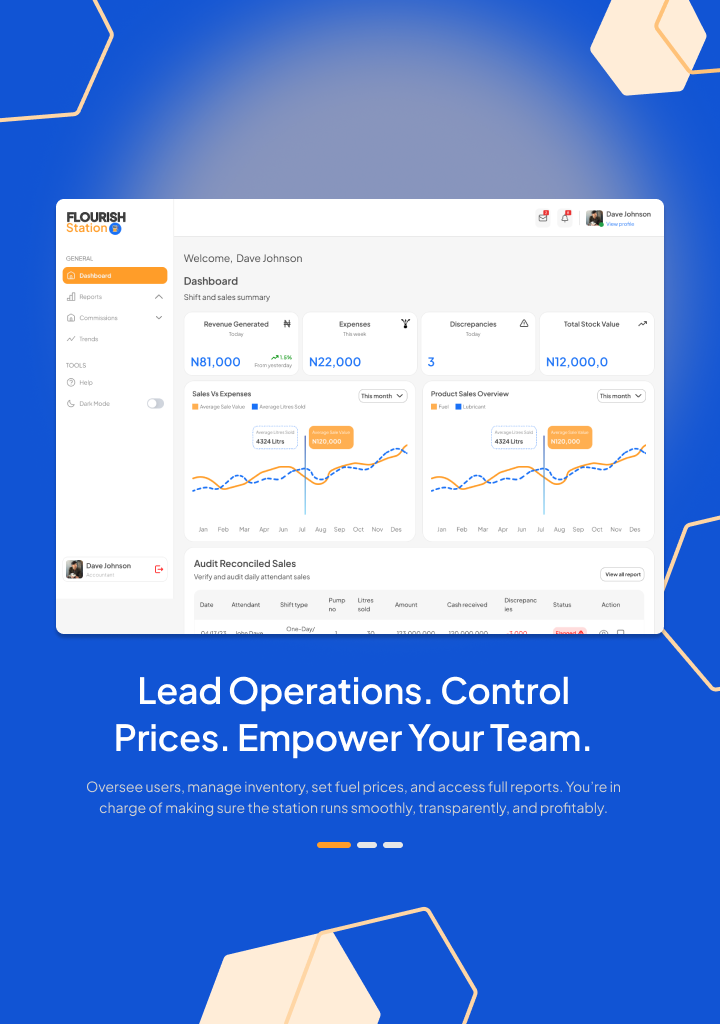
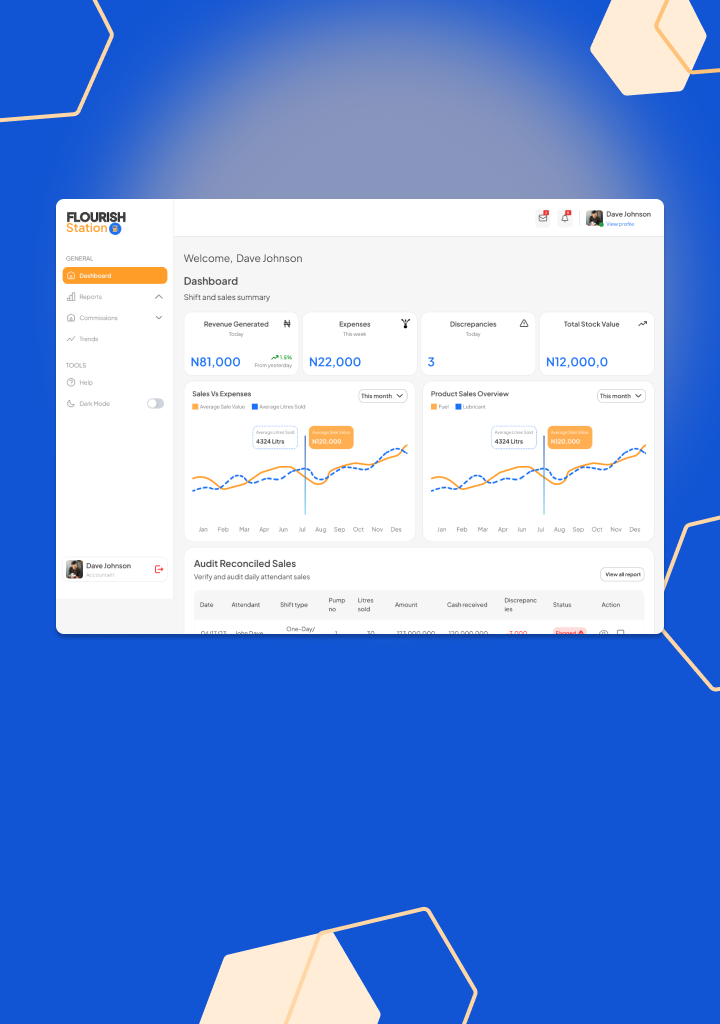
slider done

Changed region(s): [[0.1222, 0.6562, 0.825, 0.8438], [0.825, 0.75, 0.8556, 0.7812]]

diff --git a/src/sections/login/Login.jsx b/src/sections/login/Login.jsx
@@ -1,11 +1,105 @@
+// 'use client'
+// import React, { useState } from 'react'
+// import { FiEyeOff } from "react-icons/fi";
+// import { FiEye } from "react-icons/fi";
+// import LoginTwo from '../LoginTwo';
+
+
+
+
+// const Login = () => {
+//   const [password, setPassword] = useState("");
+//   const [showPassword, setShowPassword] = useState(false);
+
+//   const handleShowPassword = () => setShowPassword(!showPassword);
+
+//   return (
+//     <div className='flex p-20 gap-8 justify-center items-center  '>
+//       {/* Left - Form Section */}
+//       <div className='w-full md:w-[450px]'>
+//         <div className='leading-7'>
+//           <img src="/station-logo.png" alt="logo" className='h-10 mb-8' />
+
+//           <h1 className='text-2xl font-bold text-[#323130]'>Login to Flourish Station</h1>
+//           <p className='text-sm text-gray-500'>Login to access your customized dashboard</p>
+
+//           <form className='flex flex-col gap-4 mt-6'>
+            
+//             {/* Email */}
+//             <div className='relative flex flex-col'>
+//               <label className='text-sm font-bold text-[#323130]'>Email</label>
+//               <input
+//                 type="text"
+//                 placeholder='username123@gmail.com'
+//                 className='pl-4 border-[1.6px] rounded-md w-full h-[43px] focus:border-blue-600 outline-none'
+//               />
+//             </div>
+
+//             {/* Password */}
+//             <div className='relative flex flex-col'>
+//               <label className='text-sm font-bold text-[#323130]'>Password</label>
+//               <input
+//                 type={showPassword ? "text" : "password"}
+//                 value={password}
+//                 placeholder='Enter password'
+//                 onChange={(e) => setPassword(e.target.value)}
+//                 className='pl-4 border-[1.6px] rounded-md w-full h-[43px] outline-none focus:border-blue-600'
+//               />
+//               {showPassword ? (
+//                 <FiEye
+//                   onClick={handleShowPassword}
+//                   size={22}
+//                   className='absolute top-[30px] right-3 text-gray-400 cursor-pointer'
+//                 />
+//               ) : (
+//                 <FiEyeOff
+//                   onClick={handleShowPassword}
+//                   size={22}
+//                   className='absolute top-[30px] right-3 text-gray-500 cursor-pointer'
+//                 />
+//               )}
+//             </div>
+
+//             {/* Remember Me */}
+//             <div className='flex items-center gap-3'>
+//               <input
+//                 type="checkbox"
+//                 className='text-blue-600 accent-blue-600 focus:ring-0'
+//               />
+//               <label className='font-semibold text-sm'>Remember me?</label>
+//             </div>
+
+//             {/* Sign In Button */}
+//             <button className='bg-blue-600 rounded-md font-semibold text-white h-[45px] hover:bg-blue-500 transition'>
+//               Sign In
+//             </button>
+
+//             {/* Forgot Password */}
+//             <p className=' flex place-content-center text-sm font-semibold text-gray-500'>
+//               Forgotten Password?{' '}
+//               <span className='text-blue-600 ml-2 cursor-pointer hover:text-blue-950'>
+//                 Reset Here
+//               </span>
+//             </p>
+//           </form>
+//         </div>
+//       </div>
+
+//       {/* Right Section - Optional */}
+//       <div className='flex-1 overflow-y-auto'>
+//               <LoginTwo/>
+//       </div>
+//     </div>
+//   );
+// };
+
+// export default Login;
+
 'use client'
 import React, { useState } from 'react'
-import { GoChevronDown } from "react-icons/go";
-import { GoChevronUp } from "react-icons/go";
 import { FiEyeOff } from "react-icons/fi";
 import { FiEye } from "react-icons/fi";
-
-
+import LoginTwo from '../LoginTwo';
 
 const Login = () => {
   const [password, setPassword] = useState("");
@@ -14,10 +108,10 @@ const Login = () => {
   const handleShowPassword = () => setShowPassword(!showPassword);
 
   return (
-    <div className='flex gap-8 justify-center items-center  '>
-      {/* Left - Form Section */}
-      <div className='w-full md:w-[450px]'>
-        <div className='leading-7'>
+    <div className='flex h-screen overflow-hidden'>
+      {/* Left - Form Section - Fixed */}
+      <div className='flex-shrink-0 w-full md:w-[510px] p-8 flex items-center justify-center bg-white'>
+        <div className='w-full max-w-md'>
           <img src="/station-logo.png" alt="logo" className='h-10 mb-8' />
 
           <h1 className='text-2xl font-bold text-[#323130]'>Login to Flourish Station</h1>
@@ -75,7 +169,7 @@ const Login = () => {
             </button>
 
             {/* Forgot Password */}
-            <p className=' flex place-content-center text-sm font-semibold text-gray-500'>
+            <p className='flex place-content-center text-sm font-semibold text-gray-500'>
               Forgotten Password?{' '}
               <span className='text-blue-600 ml-2 cursor-pointer hover:text-blue-950'>
                 Reset Here
@@ -85,9 +179,9 @@ const Login = () => {
         </div>
       </div>
 
-      {/* Right Section - Optional */}
-      <div className=''>
-        <LoginTwo />
+      {/* Right Section - Scrollable LoginTwo */}
+      <div className='flex-1 overflow-y-auto'>
+        <LoginTwo/>
       </div>
     </div>
   );

diff --git a/src/sections/login/TextSlider.jsx b/src/sections/login/TextSlider.jsx
@@ -1,0 +1,111 @@
+import { useState, useEffect } from 'react';
+
+const TextSlider = () => {
+  const [currentSlide, setCurrentSlide] = useState(0);
+
+  // Your slide data - customize these texts
+  const slides = [
+    {
+      id: 1,
+      title: "Lead Operations. Control Prices. Empower Your Team.",
+      description: "Oversee users, manage inventory, set fuel prices, and access full reports. You're in charge of making sure the station runs smoothly, transparently, and profitably."
+    },
+    {
+      id: 2,
+      title: "Monitor, Approve, and Maintain Operational Integrity.",
+      description: "Stay on top of fuel dispensing activities, approve shift closures, compare dip readings, and ensure every pump runs efficiently — your eyes are everywhere."
+    },
+    {
+      id: 3,
+      title: "Stay Accountable.",
+      description: "Audit daily fuel and lubricant sales, verify financial records, and generate tax-ready reports with ease and transparency."
+    },
+    {
+      id: 4,
+      title: "Monitor Performance. Maximize Revenue. Scale Success.",
+      description: "Track key metrics, analyze customer trends, and make data-driven decisions. Build a sustainable business that grows with your ambitions and market demands."
+    },
+    {
+      id: 5,
+      title: "Scale Your Operations Seamlessly.",
+      description: "Expand your business with confidence using integrated tools, automated workflows, and comprehensive analytics that support growth at every stage."
+    },
+    {
+      id: 6,
+      title: "Stay Accountable and Transparent.",
+      description: "Maintain complete visibility across all operations with detailed audit trails, compliance reporting, and real-time monitoring capabilities."
+    }
+  ];
+
+  // Auto-slide functionality
+  useEffect(() => {
+    const interval = setInterval(() => {
+      setCurrentSlide((prev) => (prev + 1) % slides.length);
+    }, 3000);
+
+    return () => clearInterval(interval);
+  }, [slides.length]);
+
+  const goToSlide = (index) => {
+    setCurrentSlide(index);
+  };
+
+  const goToPrevSlide = () => {
+    setCurrentSlide((prev) => (prev - 1 + slides.length) % slides.length);
+  };
+
+  const goToNextSlide = () => {
+    setCurrentSlide((prev) => (prev + 1) % slides.length);
+  };
+
+  return (
+    <div className="bg-transparent min-h-[400px] sm:min-h-[450px] md:min-h-[500px] lg:min-h-[600px] p-4 sm:p-6 md:p-8 lg:p-12 xl:p-16 relative overflow-hidden flex items-center justify-center">
+      
+      <div className="w-full max-w-xs sm:max-w-sm md:max-w-2xl lg:max-w-4xl xl:max-w-5xl mx-auto relative z-10 flex flex-col items-center justify-center text-center">
+        
+        {/* Text Content with Animation */}
+        <div className="text-white min-h-[180px] sm:min-h-[200px] md:min-h-[220px] lg:min-h-[250px] flex items-center justify-center mb-2 sm:mb-2">
+          <div 
+            key={currentSlide}
+            className="animate-fadeIn px-2 sm:px-4"
+          >
+            <h1 className="text-lg sm:text-xl md:text-2xl lg:text-3xl xl:text-4xl 2xl:text-3xl font-bold  mb-4 sm:mb-6 text-center">
+              {slides[currentSlide].title}
+            </h1>
+            <p className="text-xs sm:text-sm md:text-base lg:text-lg text-blue-100 max-w-full sm:max-w-md md:max-w-lg lg:max-w-2xl xl:max-w-3xl mx-auto text-center">
+              {slides[currentSlide].description}
+            </p>
+          </div>
+        </div>
+
+        {/* Slide Indicators */}
+        <div className="flex flex-wrap gap-2 sm:gap-3 mb-4 sm:mb-6 justify-center px-4">
+          {slides.map((_, index) => (
+            <button
+              key={index}
+              onClick={() => goToSlide(index)}
+              className={`h-1.5 sm:h-2 rounded-full transition-all duration-300 ${
+                index === currentSlide 
+                  ? 'bg-yellow-400 w-8 sm:w-10 lg:w-12' 
+                  : 'bg-white bg-opacity-30 w-4 sm:w-5 lg:w-6 hover:bg-opacity-50'
+              }`}
+              aria-label={`Go to slide ${index + 1}`}
+            />
+          ))}
+        </div>
+
+        
+        {/* Touch/Swipe indicators for mobile */}
+        <div className="sm:hidden mt-4">
+          <p className="text-white text-opacity-60 text-xs text-center">
+            Tap indicators to navigate
+          </p>
+        </div>
+      </div>
+
+      
+    </div>
+  );
+};
+
+export default TextSlider;

diff --git a/src/sections/LoginTwo.jsx b/src/sections/LoginTwo.jsx
@@ -1,18 +1,24 @@
 import React from 'react'
 import Image from 'next/image'
-
-
+import TextSlider from './login/TextSlider'
 
 const LoginTwo = () => {
   return (
     <div className=''>
-      <Image
-      src="/Onboarding.png"
-      height={34}
-      width={23}
-      alt='profile image'
-      />
-       
+        <div className=' relative'>
+
+            <Image className=''
+              src='/Onboarding.png'
+              height={1024}
+              width={720}
+              alt='dashboard-image'
+            />
+
+            <div className='absolute bottom-[-45px]'>
+              <TextSlider/>
+            </div>
+
+        </div>
     </div>
   )
 }
